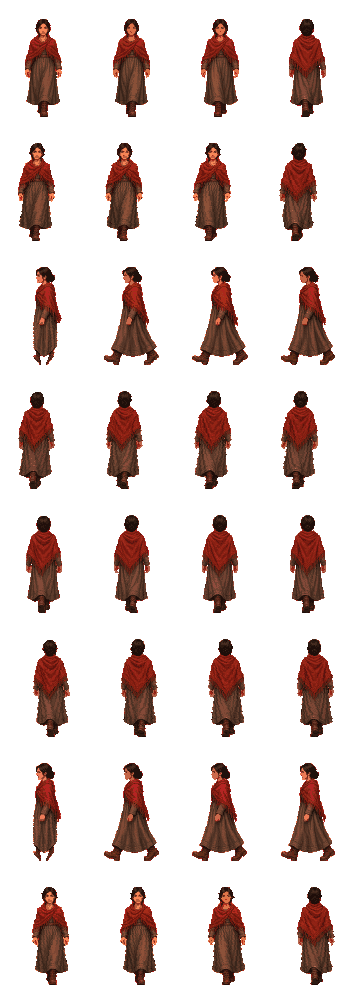
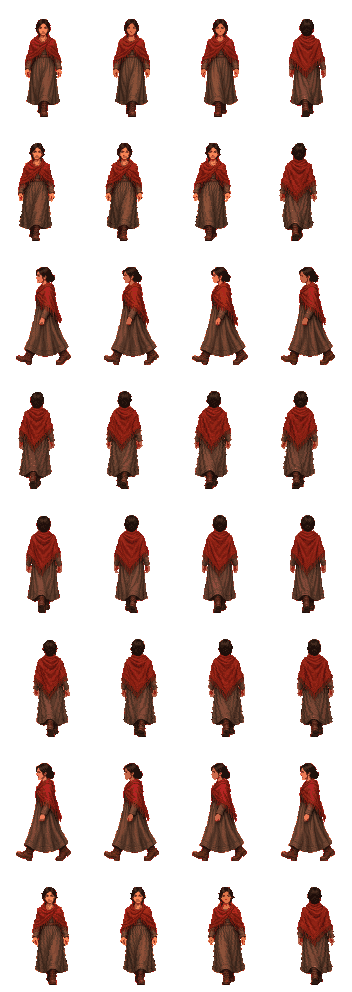
v26: take gw-oct13c brute NW/NE (upright, unclipped) and Adele/Sera side rows; pose table regen. ART_V 2057

Changed region(s): [[0.0625, 0.8125, 0.2188, 0.875], [0.0625, 0.3125, 0.2188, 0.375]]

diff --git a/src/game/pose-table.ts b/src/game/pose-table.ts
@@ -1,2 +1,2 @@
 // Generated by scripts/gen-pose-table.py. Do not edit by hand.
-export const POSE: Record<string, { walk: number[]; idle: number[][]; cycle: number[][] }> = {"hero": {"walk": [0, 1, 2, 3, 4, 5, 6, 7], "idle": [[0, 0], [1, 0], [2, 0], [3, 0], [4, 0], [5, 0], [6, 0], [7, 0]], "cycle": [[1, 2, 3], [1, 2, 3], [1, 2, 3], [1, 2, 3], [1, 2, 3], [1, 2, 3], [1, 2, 3], [1, 2, 3]]}, "villager": {"walk": [0, 1, 2, 3, 4, 5, 6, 7], "idle": [[0, 0], [1, 0], [0, 0], [3, 0], [4, 0], [5, 0], [0, 0], [7, 0]], "cycle": [[0, 1, 2, 3], [0, 1, 2, 3], [0, 1, 2, 3], [0, 1, 2, 3], [0, 1, 2, 3], [0, 1, 2, 3], [0, 1, 2, 3], [0, 1, 2, 3]]}, "npc-adele": {"walk": [0, 1, 2, 3, 4, 5, 6, 7], "idle": [[0, 1], [1, 0], [2, 0], [3, 0], [4, 0], [5, 1], [6, 0], [7, 1]], "cycle": [[0, 1, 2, 3], [0, 1, 2, 3], [1, 2, 3], [0, 1, 2, 3], [0, 1, 2, 3], [0, 1, 2, 3], [1, 2, 3], [0, 1, 2, 3]]}, "npc-bram": {"walk": [0, 1, 2, 3, 4, 5, 6, 7], "idle": [[0, 0], [1, 0], [0, 0], [3, 0], [4, 0], [5, 0], [0, 0], [7, 0]], "cycle": [[0, 1, 2, 3], [0, 1, 2, 3], [0, 1, 2, 3], [0, 1, 2, 3], [0, 1, 2, 3], [0, 1, 2, 3], [0, 1, 2, 3], [0, 1, 2, 3]]}, "npc-cal": {"walk": [0, 1, 2, 3, 4, 5, 6, 7], "idle": [[0, 1], [1, 1], [2, 0], [3, 0], [4, 0], [5, 0], [6, 0], [7, 1]], "cycle": [[0, 1, 2, 3], [0, 1, 2, 3], [1, 2, 3], [0, 1, 2, 3], [0, 1, 2, 3], [0, 1, 2, 3], [1, 2, 3], [0, 1, 2, 3]]}, "npc-cyndal": {"walk": [0, 1, 2, 3, 4, 5, 6, 7], "idle": [[0, 1], [0, 1], [0, 1], [4, 1], [4, 1], [4, 1], [0, 1], [0, 1]], "cycle": [[0, 1, 2, 3], [0, 1, 2, 3], [0, 1, 2, 3], [0, 1, 2, 3], [0, 1, 2, 3], [0, 1, 2, 3], [0, 1, 2, 3], [0, 1, 2, 3]]}, "npc-emile": {"walk": [0, 1, 2, 3, 4, 5, 6, 7], "idle": [[0, 0], [1, 0], [0, 0], [3, 0], [4, 0], [5, 0], [0, 0], [7, 0]], "cycle": [[0, 1, 2, 3], [0, 1, 2, 3], [0, 1, 2, 3], [0, 1, 2, 3], [0, 1, 2, 3], [0, 1, 2, 3], [0, 1, 2, 3], [0, 1, 2, 3]]}, "npc-etta": {"walk": [0, 1, 2, 3, 4, 5, 6, 7], "idle": [[0, 0], [1, 0], [2, 0], [3, 0], [4, 0], [5, 0], [0, 0], [7, 0]], "cycle": [[0, 1, 2, 3], [0, 1, 2, 3], [1, 2, 3], [0, 1, 2, 3], [0, 1, 2, 3], [0, 1, 2, 3], [0, 1, 2, 3], [0, 1, 2, 3]]}, "npc-gus": {"walk": [0, 1, 2, 3, 4, 5, 6, 7], "idle": [[0, 0], [1, 0], [0, 0], [3, 0], [4, 0], [5, 0], [0, 0], [7, 0]], "cycle": [[0, 1, 2, 3], [0, 1, 2, 3], [0, 1, 2, 3], [0, 1, 2, 3], [0, 1, 2, 3], [0, 1, 2, 3], [0, 1, 2, 3], [0, 1, 2, 3]]}, "npc-holt": {"walk": [0, 1, 2, 3, 4, 5, 6, 7], "idle": [[0, 0], [1, 0], [0, 0], [3, 0], [4, 0], [5, 0], [0, 0], [7, 0]], "cycle": [[0, 1, 2, 3], [0, 1, 2, 3], [0, 1, 2, 3], [0, 1, 2, 3], [0, 1, 2, 3], [0, 1, 2, 3], [0, 1, 2, 3], [0, 1, 2, 3]]}, "npc-ivo": {"walk": [0, 1, 2, 3, 4, 5, 6, 7], "idle": [[0, 0], [1, 0], [0, 0], [3, 0], [4, 0], [5, 0], [0, 0], [7, 0]], "cycle": [[0, 1, 2, 3], [0, 1, 2, 3], [0, 1, 2, 3], [0, 1, 2, 3], [0, 1, 2, 3], [0, 1, 2, 3], [0, 1, 2, 3], [0, 1, 2, 3]]}, "npc-justin": {"walk": [0, 1, 2, 3, 4, 5, 6, 7], "idle": [[0, 1], [1, 1], [2, 0], [3, 0], [4, 0], [5, 0], [6, 0], [7, 1]], "cycle": [[0, 1, 2, 3], [0, 1, 2, 3], [1, 2, 3], [0, 1, 2, 3], [0, 1, 2, 3], [0, 1, 2, 3], [1, 2, 3], [0, 1, 2, 3]]}, "npc-loki": {"walk": [0, 1, 2, 3, 3, 5, 6, 7], "idle": [[0, 0], [0, 0], [0, 0], [0, 0], [0, 0], [0, 0], [0, 0], [0, 0]], "cycle": [[0, 1, 2, 3], [0, 1, 2, 3], [0, 1, 2, 3], [0, 1, 2, 3], [0, 1, 2, 3], [0, 1, 2, 3], [0, 1, 2, 3], [0, 1, 2, 3]]}, "npc-mae": {"walk": [0, 1, 2, 3, 4, 5, 6, 7], "idle": [[0, 1], [1, 0], [2, 0], [3, 0], [4, 0], [5, 1], [6, 0], [7, 1]], "cycle": [[0, 1, 2, 3], [0, 1, 2, 3], [1, 2, 3], [0, 1, 2, 3], [0, 1, 2, 3], [0, 1, 2, 3], [1, 2, 3], [0, 1, 2, 3]]}, "npc-mira": {"walk": [0, 1, 2, 3, 4, 5, 6, 7], "idle": [[0, 0], [1, 0], [0, 0], [3, 0], [4, 0], [5, 1], [0, 0], [7, 1]], "cycle": [[0, 1, 2, 3], [0, 1, 2, 3], [0, 1, 2, 3], [0, 1, 2, 3], [0, 1, 2, 3], [0, 1, 2, 3], [0, 1, 2, 3], [0, 1, 2, 3]]}, "npc-nora": {"walk": [0, 1, 2, 3, 4, 5, 6, 7], "idle": [[0, 0], [1, 0], [0, 0], [3, 0], [4, 0], [5, 1], [0, 0], [7, 1]], "cycle": [[0, 1, 2, 3], [0, 1, 2, 3], [0, 1, 2, 3], [0, 1, 2, 3], [0, 1, 2, 3], [0, 1, 2, 3], [0, 1, 2, 3], [0, 1, 2, 3]]}, "npc-paul": {"walk": [0, 1, 2, 3, 4, 5, 6, 7], "idle": [[0, 0], [1, 0], [0, 0], [3, 0], [4, 0], [5, 0], [0, 0], [7, 0]], "cycle": [[0, 1, 2, 3], [0, 1, 2, 3], [0, 1, 2, 3], [0, 1, 2, 3], [0, 1, 2, 3], [0, 1, 2, 3], [0, 1, 2, 3], [0, 1, 2, 3]]}, "npc-pete": {"walk": [0, 1, 2, 3, 4, 5, 6, 7], "idle": [[0, 0], [1, 0], [0, 0], [3, 0], [4, 0], [5, 0], [0, 0], [7, 0]], "cycle": [[0, 1, 2, 3], [0, 1, 2, 3], [0, 1, 2, 3], [0, 1, 2, 3], [0, 1, 2, 3], [0, 1, 2, 3], [0, 1, 2, 3], [0, 1, 2, 3]]}, "npc-rejean": {"walk": [0, 1, 2, 3, 4, 5, 6, 7], "idle": [[0, 2], [1, 1], [2, 0], [3, 2], [4, 0], [5, 0], [6, 0], [7, 3]], "cycle": [[0, 1, 2, 3], [0, 1, 2, 3], [1, 2, 3], [0, 1, 2, 3], [0, 1, 2, 3], [0, 1, 2, 3], [1, 2, 3], [0, 1, 2, 3]]}, "npc-ruth": {"walk": [0, 1, 2, 3, 4, 5, 6, 7], "idle": [[0, 0], [1, 0], [0, 0], [3, 0], [4, 0], [5, 1], [0, 0], [7, 1]], "cycle": [[0, 1, 2, 3], [0, 1, 2, 3], [0, 1, 2, 3], [0, 1, 2, 3], [0, 1, 2, 3], [0, 1, 2, 3], [0, 1, 2, 3], [0, 1, 2, 3]]}, "npc-sarah": {"walk": [0, 1, 2, 3, 4, 5, 6, 7], "idle": [[0, 0], [1, 0], [0, 0], [3, 0], [4, 0], [5, 0], [0, 0], [7, 0]], "cycle": [[0, 1, 2, 3], [0, 1, 2, 3], [0, 1, 2, 3], [0, 1, 2, 3], [0, 1, 2, 3], [0, 1, 2, 3], [0, 1, 2, 3], [0, 1, 2, 3]]}, "npc-sera": {"walk": [0, 1, 2, 3, 4, 5, 6, 7], "idle": [[0, 1], [1, 0], [2, 0], [3, 0], [4, 0], [5, 1], [6, 0], [7, 1]], "cycle": [[0, 1, 2, 3], [0, 1, 2, 3], [1, 2, 3], [0, 1, 2, 3], [0, 1, 2, 3], [0, 1, 2, 3], [1, 2, 3], [0, 1, 2, 3]]}, "npc-walter": {"walk": [0, 1, 2, 3, 4, 5, 6, 7], "idle": [[0, 1], [1, 1], [2, 0], [3, 0], [4, 0], [5, 0], [6, 0], [7, 1]], "cycle": [[0, 1, 2, 3], [0, 1, 2, 3], [1, 2, 3], [0, 1, 2, 3], [0, 1, 2, 3], [0, 1, 2, 3], [1, 2, 3], [0, 1, 2, 3]]}};
+export const POSE: Record<string, { walk: number[]; idle: number[][]; cycle: number[][] }> = {"hero": {"walk": [0, 1, 2, 3, 4, 5, 6, 7], "idle": [[0, 0], [1, 0], [2, 0], [3, 0], [4, 0], [5, 0], [6, 0], [7, 0]], "cycle": [[1, 2, 3], [1, 2, 3], [1, 2, 3], [1, 2, 3], [1, 2, 3], [1, 2, 3], [1, 2, 3], [1, 2, 3]]}, "villager": {"walk": [0, 1, 2, 3, 4, 5, 6, 7], "idle": [[0, 0], [1, 0], [0, 0], [3, 0], [4, 0], [5, 0], [0, 0], [7, 0]], "cycle": [[0, 1, 2, 3], [0, 1, 2, 3], [0, 1, 2, 3], [0, 1, 2, 3], [0, 1, 2, 3], [0, 1, 2, 3], [0, 1, 2, 3], [0, 1, 2, 3]]}, "npc-adele": {"walk": [0, 1, 2, 3, 4, 5, 6, 7], "idle": [[0, 1], [1, 0], [0, 1], [3, 0], [4, 0], [5, 1], [0, 1], [7, 1]], "cycle": [[0, 1, 2, 3], [0, 1, 2, 3], [0, 1, 2, 3], [0, 1, 2, 3], [0, 1, 2, 3], [0, 1, 2, 3], [0, 1, 2, 3], [0, 1, 2, 3]]}, "npc-bram": {"walk": [0, 1, 2, 3, 4, 5, 6, 7], "idle": [[0, 0], [1, 0], [0, 0], [3, 0], [4, 0], [5, 0], [0, 0], [7, 0]], "cycle": [[0, 1, 2, 3], [0, 1, 2, 3], [0, 1, 2, 3], [0, 1, 2, 3], [0, 1, 2, 3], [0, 1, 2, 3], [0, 1, 2, 3], [0, 1, 2, 3]]}, "npc-cal": {"walk": [0, 1, 2, 3, 4, 5, 6, 7], "idle": [[0, 1], [1, 1], [2, 0], [3, 0], [4, 0], [5, 0], [6, 0], [7, 1]], "cycle": [[0, 1, 2, 3], [0, 1, 2, 3], [1, 2, 3], [0, 1, 2, 3], [0, 1, 2, 3], [0, 1, 2, 3], [1, 2, 3], [0, 1, 2, 3]]}, "npc-cyndal": {"walk": [0, 1, 2, 3, 4, 5, 6, 7], "idle": [[0, 1], [0, 1], [0, 1], [4, 1], [4, 1], [4, 1], [0, 1], [0, 1]], "cycle": [[0, 1, 2, 3], [0, 1, 2, 3], [0, 1, 2, 3], [0, 1, 2, 3], [0, 1, 2, 3], [0, 1, 2, 3], [0, 1, 2, 3], [0, 1, 2, 3]]}, "npc-emile": {"walk": [0, 1, 2, 3, 4, 5, 6, 7], "idle": [[0, 0], [1, 0], [0, 0], [3, 0], [4, 0], [5, 0], [0, 0], [7, 0]], "cycle": [[0, 1, 2, 3], [0, 1, 2, 3], [0, 1, 2, 3], [0, 1, 2, 3], [0, 1, 2, 3], [0, 1, 2, 3], [0, 1, 2, 3], [0, 1, 2, 3]]}, "npc-etta": {"walk": [0, 1, 2, 3, 4, 5, 6, 7], "idle": [[0, 0], [1, 0], [2, 0], [3, 0], [4, 0], [5, 0], [0, 0], [7, 0]], "cycle": [[0, 1, 2, 3], [0, 1, 2, 3], [1, 2, 3], [0, 1, 2, 3], [0, 1, 2, 3], [0, 1, 2, 3], [0, 1, 2, 3], [0, 1, 2, 3]]}, "npc-gus": {"walk": [0, 1, 2, 3, 4, 5, 6, 7], "idle": [[0, 0], [1, 0], [0, 0], [3, 0], [4, 0], [5, 0], [0, 0], [7, 0]], "cycle": [[0, 1, 2, 3], [0, 1, 2, 3], [0, 1, 2, 3], [0, 1, 2, 3], [0, 1, 2, 3], [0, 1, 2, 3], [0, 1, 2, 3], [0, 1, 2, 3]]}, "npc-holt": {"walk": [0, 1, 2, 3, 4, 5, 6, 7], "idle": [[0, 0], [1, 0], [0, 0], [3, 0], [4, 0], [5, 0], [0, 0], [7, 0]], "cycle": [[0, 1, 2, 3], [0, 1, 2, 3], [0, 1, 2, 3], [0, 1, 2, 3], [0, 1, 2, 3], [0, 1, 2, 3], [0, 1, 2, 3], [0, 1, 2, 3]]}, "npc-ivo": {"walk": [0, 1, 2, 3, 4, 5, 6, 7], "idle": [[0, 0], [1, 0], [0, 0], [3, 0], [4, 0], [5, 0], [0, 0], [7, 0]], "cycle": [[0, 1, 2, 3], [0, 1, 2, 3], [0, 1, 2, 3], [0, 1, 2, 3], [0, 1, 2, 3], [0, 1, 2, 3], [0, 1, 2, 3], [0, 1, 2, 3]]}, "npc-justin": {"walk": [0, 1, 2, 3, 4, 5, 6, 7], "idle": [[0, 1], [1, 1], [2, 0], [3, 0], [4, 0], [5, 0], [6, 0], [7, 1]], "cycle": [[0, 1, 2, 3], [0, 1, 2, 3], [1, 2, 3], [0, 1, 2, 3], [0, 1, 2, 3], [0, 1, 2, 3], [1, 2, 3], [0, 1, 2, 3]]}, "npc-loki": {"walk": [0, 1, 2, 3, 3, 5, 6, 7], "idle": [[0, 0], [0, 0], [0, 0], [0, 0], [0, 0], [0, 0], [0, 0], [0, 0]], "cycle": [[0, 1, 2, 3], [0, 1, 2, 3], [0, 1, 2, 3], [0, 1, 2, 3], [0, 1, 2, 3], [0, 1, 2, 3], [0, 1, 2, 3], [0, 1, 2, 3]]}, "npc-mae": {"walk": [0, 1, 2, 3, 4, 5, 6, 7], "idle": [[0, 1], [1, 0], [2, 0], [3, 0], [4, 0], [5, 1], [6, 0], [7, 1]], "cycle": [[0, 1, 2, 3], [0, 1, 2, 3], [1, 2, 3], [0, 1, 2, 3], [0, 1, 2, 3], [0, 1, 2, 3], [1, 2, 3], [0, 1, 2, 3]]}, "npc-mira": {"walk": [0, 1, 2, 3, 4, 5, 6, 7], "idle": [[0, 0], [1, 0], [0, 0], [3, 0], [4, 0], [5, 1], [0, 0], [7, 1]], "cycle": [[0, 1, 2, 3], [0, 1, 2, 3], [0, 1, 2, 3], [0, 1, 2, 3], [0, 1, 2, 3], [0, 1, 2, 3], [0, 1, 2, 3], [0, 1, 2, 3]]}, "npc-nora": {"walk": [0, 1, 2, 3, 4, 5, 6, 7], "idle": [[0, 0], [1, 0], [0, 0], [3, 0], [4, 0], [5, 1], [0, 0], [7, 1]], "cycle": [[0, 1, 2, 3], [0, 1, 2, 3], [0, 1, 2, 3], [0, 1, 2, 3], [0, 1, 2, 3], [0, 1, 2, 3], [0, 1, 2, 3], [0, 1, 2, 3]]}, "npc-paul": {"walk": [0, 1, 2, 3, 4, 5, 6, 7], "idle": [[0, 0], [1, 0], [0, 0], [3, 0], [4, 0], [5, 0], [0, 0], [7, 0]], "cycle": [[0, 1, 2, 3], [0, 1, 2, 3], [0, 1, 2, 3], [0, 1, 2, 3], [0, 1, 2, 3], [0, 1, 2, 3], [0, 1, 2, 3], [0, 1, 2, 3]]}, "npc-pete": {"walk": [0, 1, 2, 3, 4, 5, 6, 7], "idle": [[0, 0], [1, 0], [0, 0], [3, 0], [4, 0], [5, 0], [0, 0], [7, 0]], "cycle": [[0, 1, 2, 3], [0, 1, 2, 3], [0, 1, 2, 3], [0, 1, 2, 3], [0, 1, 2, 3], [0, 1, 2, 3], [0, 1, 2, 3], [0, 1, 2, 3]]}, "npc-rejean": {"walk": [0, 1, 2, 3, 4, 5, 6, 7], "idle": [[0, 2], [1, 1], [2, 0], [3, 2], [4, 0], [5, 0], [6, 0], [7, 3]], "cycle": [[0, 1, 2, 3], [0, 1, 2, 3], [1, 2, 3], [0, 1, 2, 3], [0, 1, 2, 3], [0, 1, 2, 3], [1, 2, 3], [0, 1, 2, 3]]}, "npc-ruth": {"walk": [0, 1, 2, 3, 4, 5, 6, 7], "idle": [[0, 0], [1, 0], [0, 0], [3, 0], [4, 0], [5, 1], [0, 0], [7, 1]], "cycle": [[0, 1, 2, 3], [0, 1, 2, 3], [0, 1, 2, 3], [0, 1, 2, 3], [0, 1, 2, 3], [0, 1, 2, 3], [0, 1, 2, 3], [0, 1, 2, 3]]}, "npc-sarah": {"walk": [0, 1, 2, 3, 4, 5, 6, 7], "idle": [[0, 0], [1, 0], [0, 0], [3, 0], [4, 0], [5, 0], [0, 0], [7, 0]], "cycle": [[0, 1, 2, 3], [0, 1, 2, 3], [0, 1, 2, 3], [0, 1, 2, 3], [0, 1, 2, 3], [0, 1, 2, 3], [0, 1, 2, 3], [0, 1, 2, 3]]}, "npc-sera": {"walk": [0, 1, 2, 3, 4, 5, 6, 7], "idle": [[0, 1], [1, 0], [0, 1], [3, 0], [4, 0], [5, 1], [0, 1], [7, 1]], "cycle": [[0, 1, 2, 3], [0, 1, 2, 3], [0, 1, 2, 3], [0, 1, 2, 3], [0, 1, 2, 3], [0, 1, 2, 3], [0, 1, 2, 3], [0, 1, 2, 3]]}, "npc-walter": {"walk": [0, 1, 2, 3, 4, 5, 6, 7], "idle": [[0, 1], [1, 1], [2, 0], [3, 0], [4, 0], [5, 0], [6, 0], [7, 1]], "cycle": [[0, 1, 2, 3], [0, 1, 2, 3], [1, 2, 3], [0, 1, 2, 3], [0, 1, 2, 3], [0, 1, 2, 3], [1, 2, 3], [0, 1, 2, 3]]}};

diff --git a/src/game/engine.ts b/src/game/engine.ts
@@ -1,7 +1,7 @@
 // Recovered game engine. Type checks live in the modules this file imports.
 // @ts-nocheck
 /** Art cache-bust: bump after replacing any file in public/game (sheets, overlays, item icons). */
-const ART_V = 2056;
+const ART_V = 2057;
 import { GEAR, CRAFT, armorSlot, rollDrop, roleKit, roleStats, traitOf, defaultLook, type LookId, type RoleId, type TraitId } from "@/game/gear";
 import { sfx, unlockAudio } from "@/game/audio";
 import { POSE } from "@/game/pose-table";
